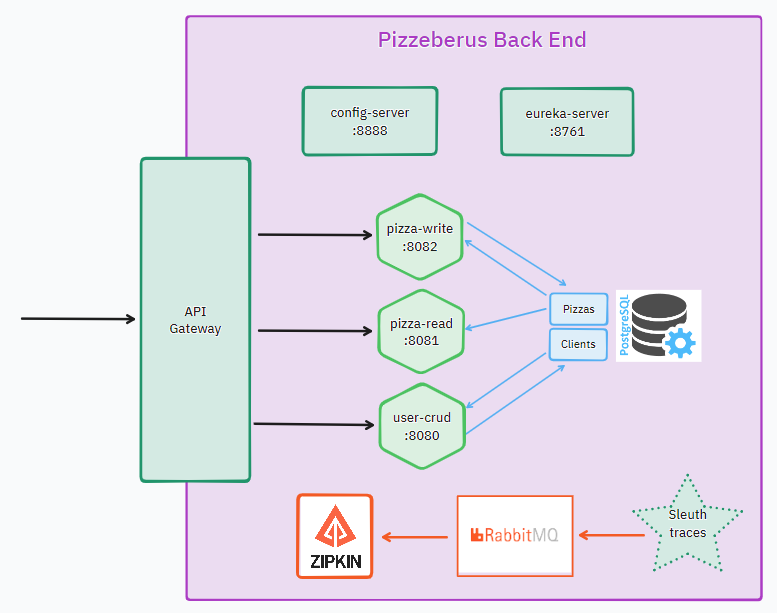
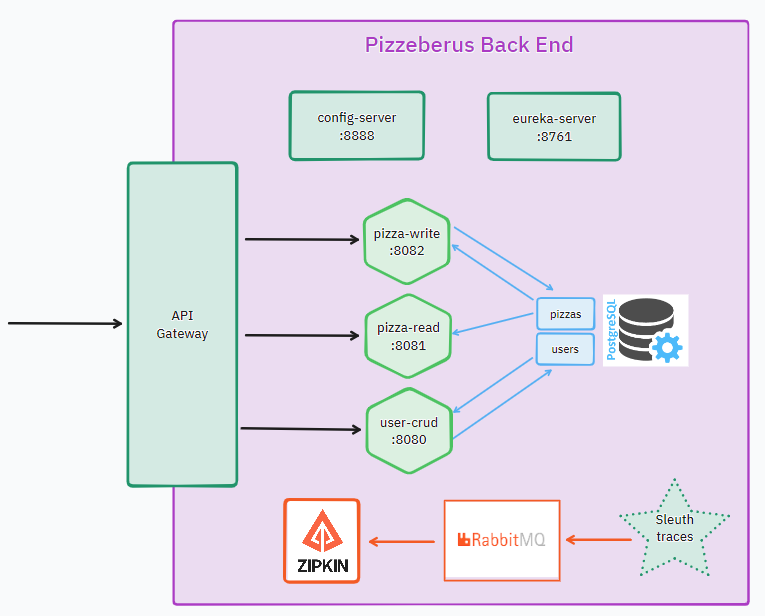
config and dependencies added

Changed region(s): [[0.0, 0.0, 0.9922, 0.9918], [0.3608, 0.124, 0.5712, 0.279], [0.6314, 0.124, 0.8418, 0.279]]

diff --git a/Design.md b/Design.md
@@ -12,7 +12,7 @@
 
 # API Users Microservice
 
--[x]  Create user
+-[x] Create user
 -[x] Modify user
 -[x] Delete user
 -[x] List users
@@ -47,7 +47,7 @@
 - Cuando se marcan las pizzas como favoritas para ver si realmente existe esa pizza.
 
 # Circuit Braker
-- Listar usuarios devolver vacío si no está el micro de users-crud activo
+- Listar usuarios devolver vacío si no está el micro de users-crud activo → esto no es posible porque si no está activo ni siquiera se va a poder hacer la petición ¿?
 
 # Ideas
 
@@ -57,15 +57,17 @@
 
 # Ampliación API
 - [x] Get user 
-- Delete pizza → habría que utilizar feign client para eliminar luego esa pizza de las favortias de los usuarios que la tuvieran
+- Delete pizza → habría que utilizar feign client para eliminar luego esa pizza de las favortas de los usuarios que la tuvieran
 
 
-# Notas
+# Notas + TODO
 - Notación @Data incluye varias anotaciones como @Getter y @Setter 
 
-- Tendré que poner también lo de la BBDD en pom y yml de los pizza micros
+- [x] Poner dependencias y configuraciones BBDD en pom y yml de los 2 pizza micros y user micro
 
-- Meter las dependencias de mapper en los micros de pizzas
+- [x] Meter las dependencias de mapper en los 2 micros de pizzas y user micro
+
+- [ ] Configurar textos swagger
 
 ## Dudas opciones
 ### Update de datos parcialmente
